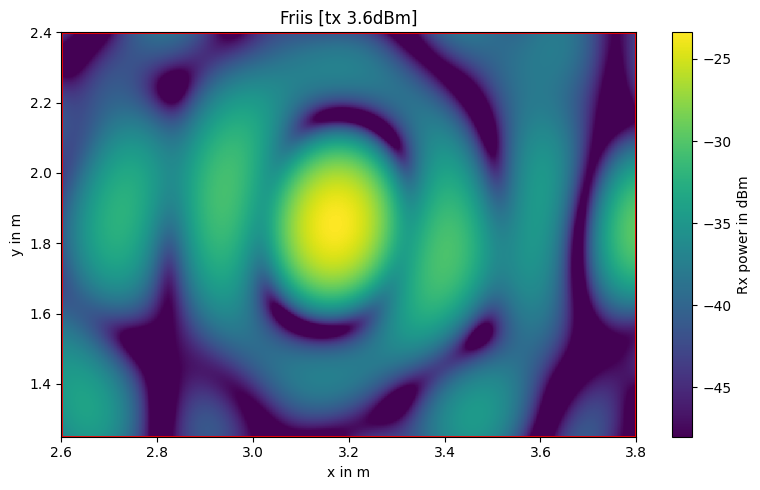
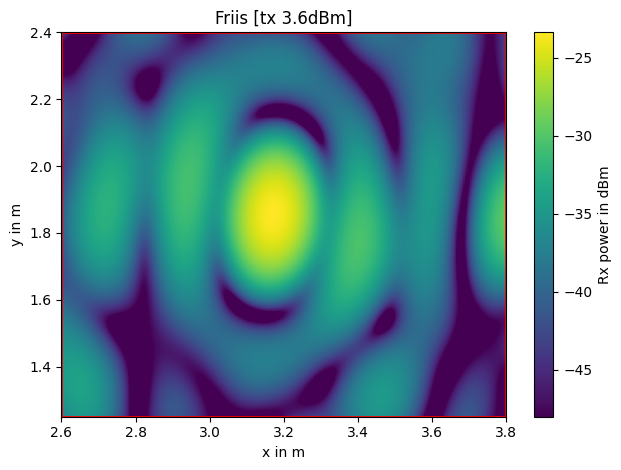
update fig with correct ratio shape

diff --git a/03_geometry_based_beamforming/031_Friis/processing/plot_2d.py b/03_geometry_based_beamforming/031_Friis/processing/plot_2d.py
@@ -13,7 +13,7 @@ from scipy.ndimage import zoom
 #     "bf-ceiling-2",
 #     "bf-ceiling-3"]
 
-to_plot = ["20241105202156"]  # "bf-ceiling-grid",
+to_plot = ["20241106101220"]  # "bf-ceiling-grid",
 
 log_heatmap = np.zeros(len(to_plot)).tolist()
 
@@ -54,8 +54,8 @@ for i, tp in enumerate(to_plot):
     upsampled_heatmap = zoom(heatmap, zoom=zoom_val, order=1)
     plt.imshow(
         10 * np.log10(upsampled_heatmap) + 10,  # + 10 to account for the cable loss
-        vmin=-48 + 10,
-        vmax=-22 + 10,
+        vmin=-48,
+        vmax=None,
         cmap="viridis",
         origin="lower",
     )
@@ -80,7 +80,7 @@ for i, tp in enumerate(to_plot):
     plt.title(tp)
     upsampled_heatmap = zoom(heatmap, zoom=zoom_val, order=1)
     p = ax.imshow(
-        upsampled_heatmap * 1000 * 10, vmin=0.001, cmap="viridis", origin="lower"
+        upsampled_heatmap * 1000 * 10, cmap="viridis", origin="lower"
     )  # * 10 to account for the cable loss
     ax.set_xticks(
         zoom_val * np.arange(len(xi))[::4],
